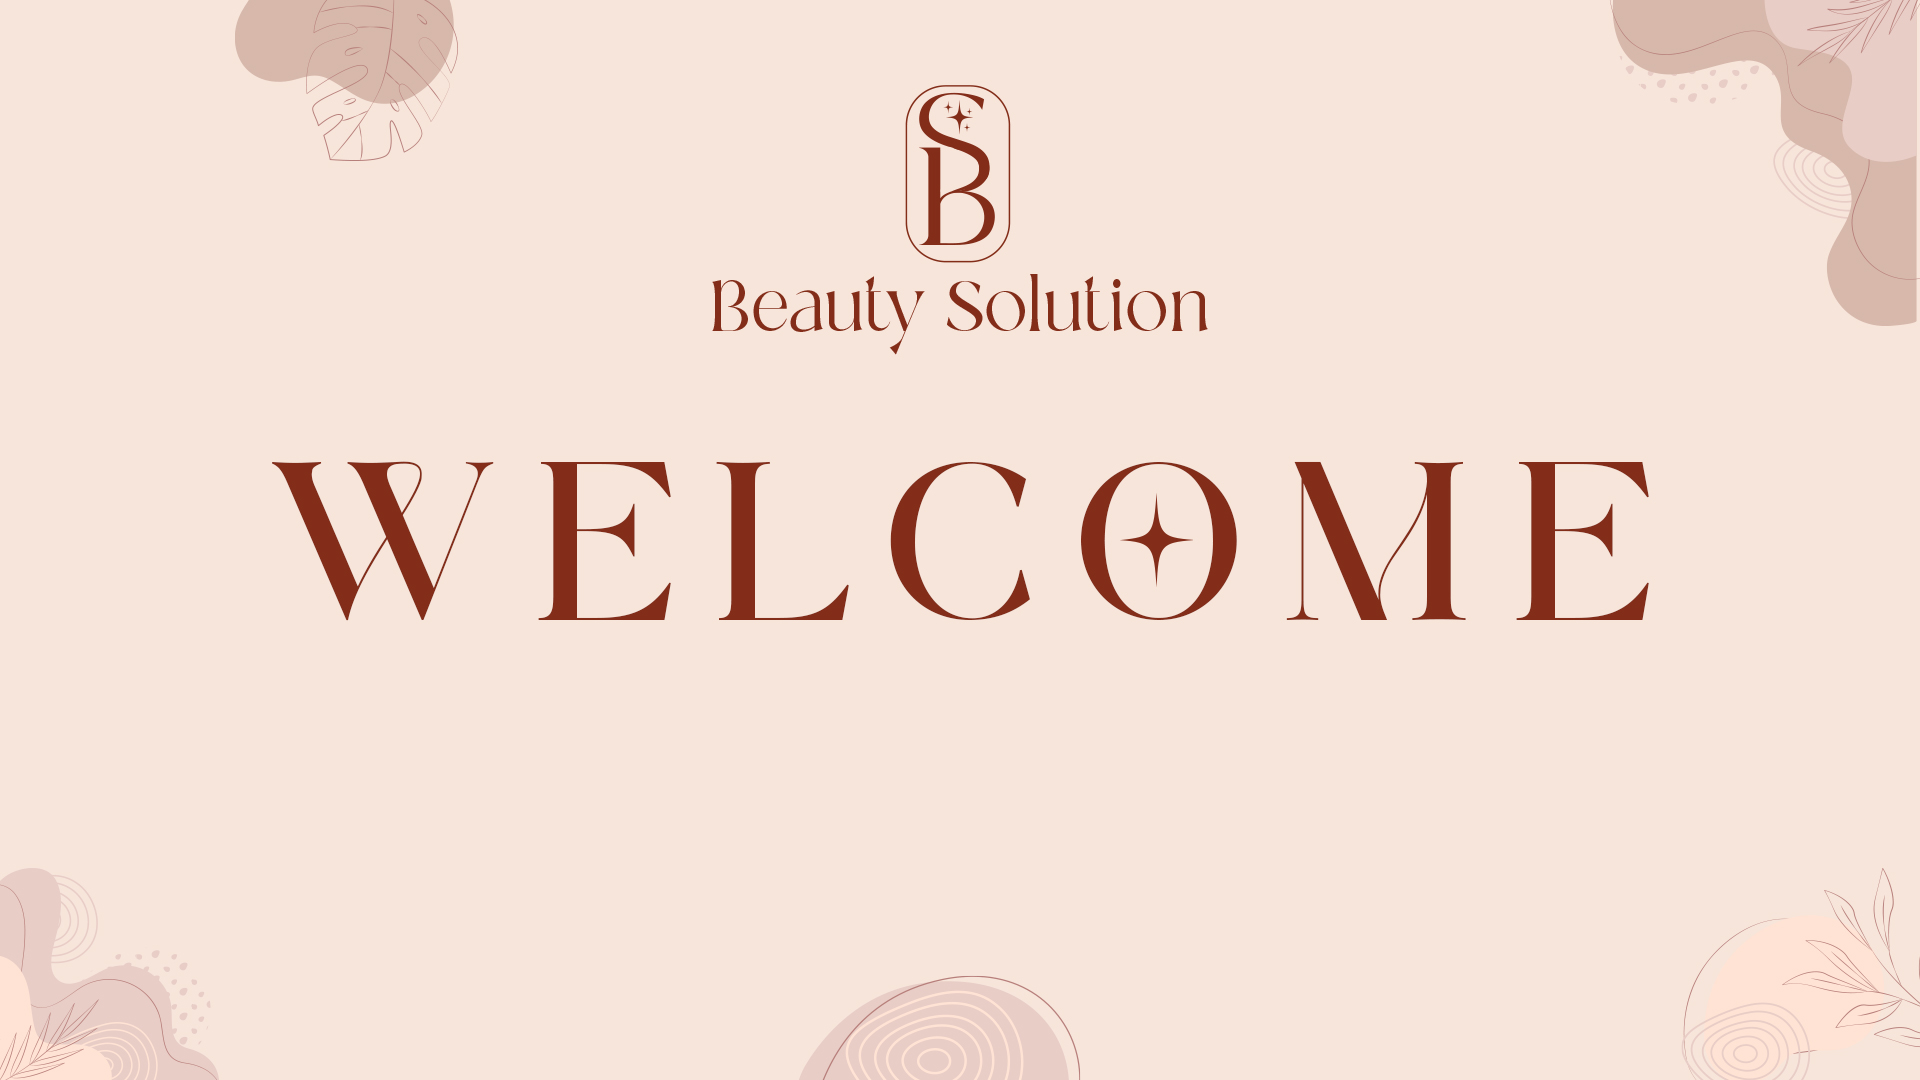
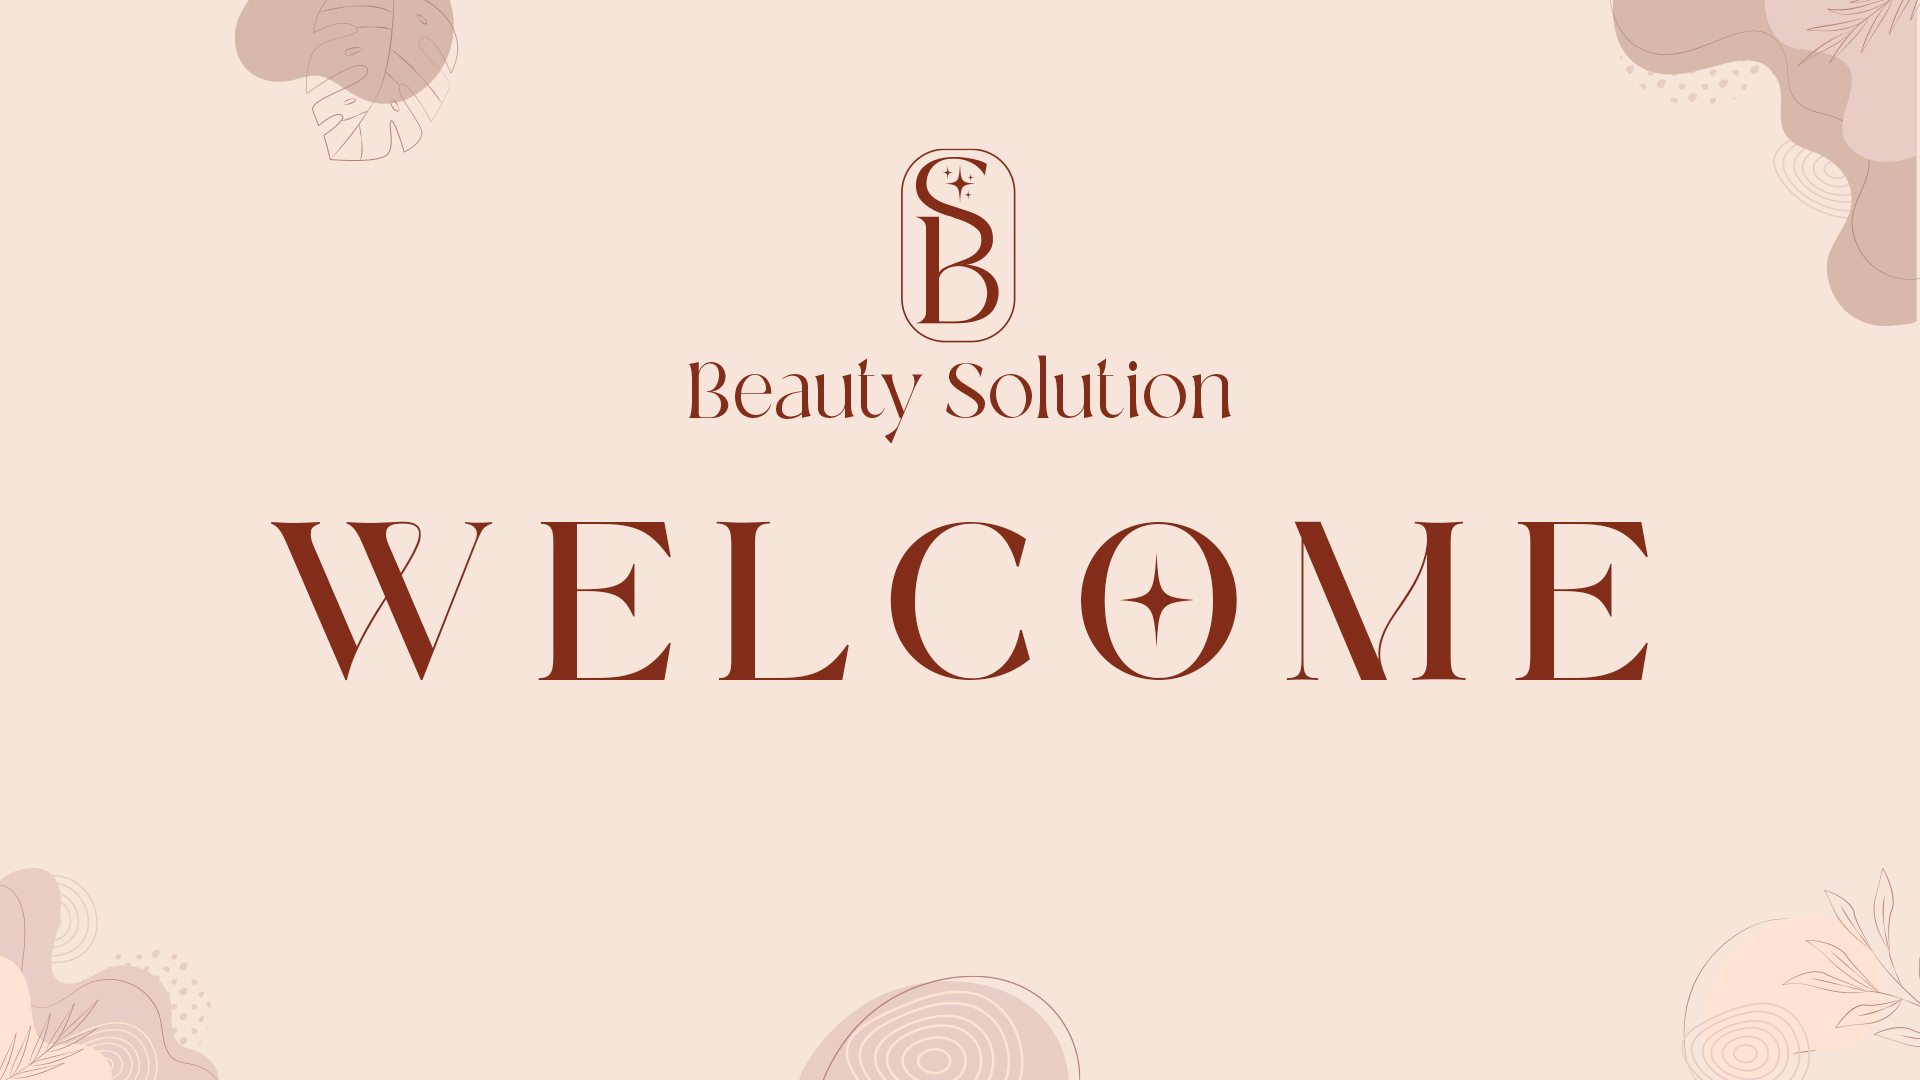
verified before

diff --git a/lib/beauty_station.dart b/lib/beauty_station.dart
@@ -1,7 +1,7 @@
 import 'package:beamer/beamer.dart';
 import 'package:beauty_solution_web/config/theme/app_theme.dart';
 import 'package:beauty_solution_web/features/main_page/controller/controller_bindding.dart';
-import 'package:beauty_solution_web/features/verify_screen/verify_screen.dart';
+import 'package:beauty_solution_web/features/verify_screen/verify_before_screen.dart';
 import 'package:beauty_solution_web/utils/app_utils/app_logs.dart';
 import 'package:flutter/material.dart';
 import 'package:flutter_screenutil/flutter_screenutil.dart';
@@ -23,17 +23,25 @@ class BeautyStationAppState extends State<BeautyStationApp> {
   final routerDelegate = BeamerDelegate(
       transitionDelegate: const NoAnimationTransitionDelegate(),
       beamBackTransitionDelegate: const NoAnimationTransitionDelegate(),
-      initialPath: '/Verified',
+      initialPath: '/VerifiedBefore',
       buildListener: (context, beamerDelegate) async {
         AppLogs.infoLog('Beamer buildListener: ${beamerDelegate.currentPages[0].name}');
       },
       locationBuilder: RoutesLocationBuilder(routes: {
-        '/Verified': (context, state, data) {
+        // '/Verified': (context, state, data) {
+        //   return const BeamPage(
+        //     title: 'Verified',
+        //     key: ValueKey('Verified'),
+        //     name: 'Verified',
+        //     child: VerifyScreen(),
+        //   );
+        // },
+        '/VerifiedBefore': (context, state, data) {
           return const BeamPage(
-            title: 'Verified',
-            key: ValueKey('Verified'),
-            name: 'Verified',
-            child: VerifyScreen(),
+            title: 'VerifiedBefore',
+            key: ValueKey('VerifiedBefore'),
+            name: 'VerifiedBefore',
+            child: VerifyBeforeScreen(),
           );
         },
         // '/Home': (context, state, data) {

diff --git a/lib/features/verify_screen/verify_before_screen.dart b/lib/features/verify_screen/verify_before_screen.dart
@@ -1,8 +1,8 @@
 import 'package:beauty_solution_web/resource/assets_manager.dart';
 import 'package:flutter/material.dart';
 
-class VerifyScreen extends StatelessWidget {
-  const VerifyScreen({super.key});
+class VerifyBeforeScreen extends StatelessWidget {
+  const VerifyBeforeScreen({super.key});
 
   @override
   Widget build(BuildContext context) {
@@ -12,7 +12,7 @@ class VerifyScreen extends StatelessWidget {
         height: double.infinity,
         decoration: const BoxDecoration(
           image: DecorationImage(
-            image: AssetImage(ImageAssets.welcomeBg),
+            image: AssetImage(ImageAssets.welcomeBg1),
             fit: BoxFit.cover,
           ),
         ),

diff --git a/lib/resource/assets_manager.dart b/lib/resource/assets_manager.dart
@@ -14,6 +14,7 @@ class ImageAssets {
 
   //**************  Welcome page / Verify  */
   static const String welcomeBg = "$imagePath/WELCOME.jpg";
+  static const String welcomeBg1 = "$imagePath/WELCOME2.jpg";
 }
 
 class IconAssets {
